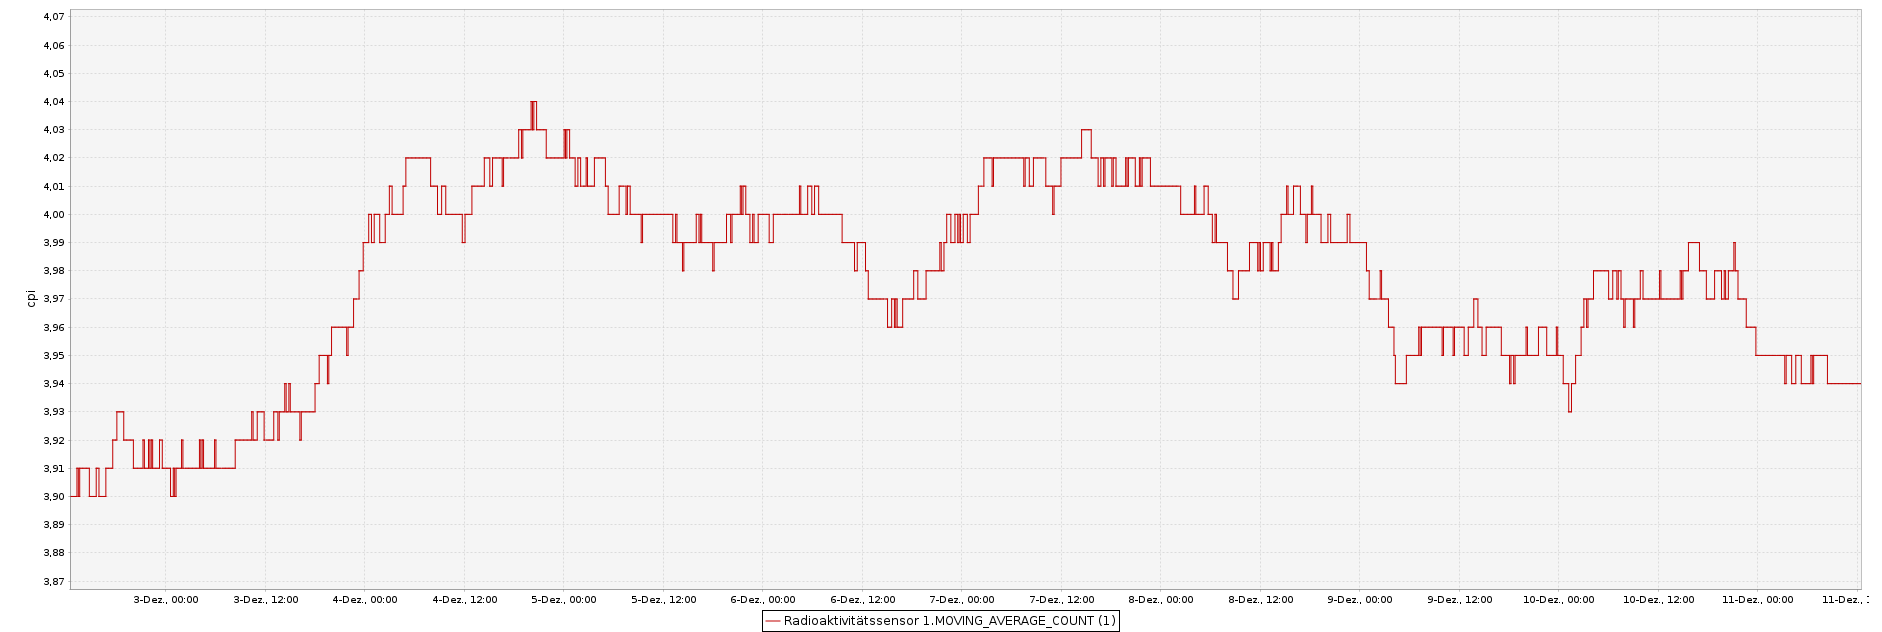
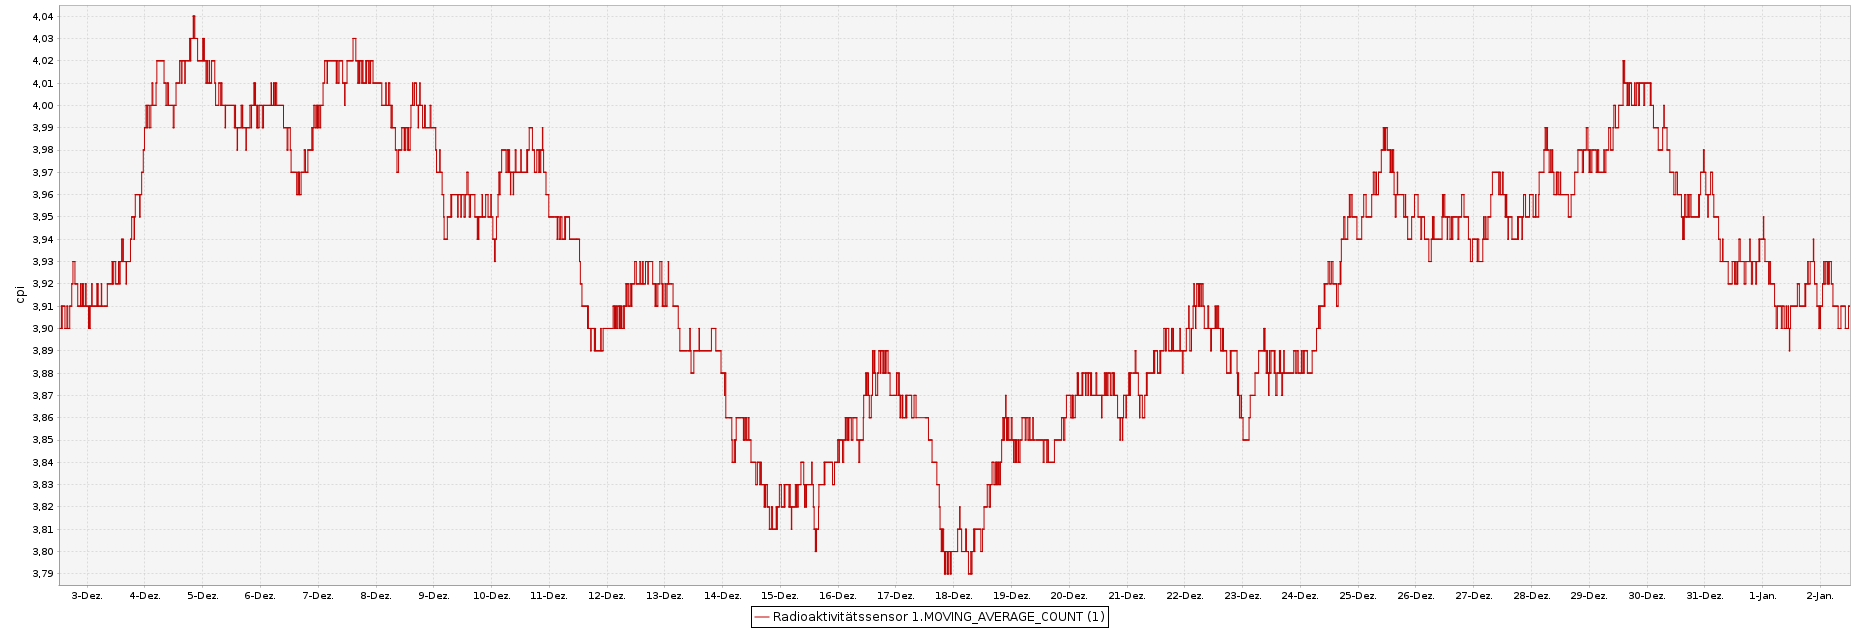
Documentation updates

diff --git a/AsksinPP_developments/PCBs/HM-LC-Bl1-FM_FUEL4EP/README.md b/AsksinPP_developments/PCBs/HM-LC-Bl1-FM_FUEL4EP/README.md
@@ -15,6 +15,8 @@
         + für den Arduino Pro Mini und den CC1101 Tranceiver **vor Einbau** in einem externen Testbed den Ruhestrom prüfen (<10uA) und einen Frequenztest durchführen!
         + das Modul 4 'LM2596 buck 24V->6.3V' zuerst außerhalb auf eine Ausgangsspannung von 6,3 Volt einstellen und dann erst einbauen!
     + die 230V Schaltungsteile erst dann anschließen, wenn der Rest vollständig geprüft wurde und die Software alle notwendigen Funktionen zeigt.
+- Zum Programmieren des ATMega328P mit einem ISP Programmierer bitte statt 4 NiMH Akkumulatoren nur 2 AAA Alkalibatterien verwenden (VCC=3,0..3,2V). Sonst muss avrdude zweimal gestartet werden, siehe Diskussionfaden im nächsten Punkt.
+- Ein Diskussionsfaden ist im Homematic Forum unter [Nachbau HM-LC-Bl1-FM für Velux Rolladen und Netzfreischalter](https://homematic-forum.de/forum/viewtopic.php?f=76&t=71683&sid=71b7e84664ec8bed7b9e50bd442664ad) zu finden
 
 
 ## Disclaimer

diff --git a/AsksinPP_developments/sketches/HB-UNI-Sensor1-RAD-AL53/measurement_examples/background radiation/Measurement_Results.md b/AsksinPP_developments/sketches/HB-UNI-Sensor1-RAD-AL53/measurement_examples/background radiation/Measurement_Results.md
@@ -11,16 +11,16 @@
 
 - Sample Separation: -
 
-- Measurement duration: 16 days
+- Measurement duration: 31 days
 
-- Date: 11th December 2021
+- Date: 2nd Jan 2022
 
 
 ## Results
 
 - Measurement interval: 10 minutes
-- 7D Moving average event rate: 3.94 cpi
+- 7D Moving average event rate: 3.91 cpi
 - Maximum 7D moving average event rate: 4.04 cpi
-- Maximum event rate: 15 cpi
-- 95% Confidence interval width: 8.94 cpi / sqrt(1008) = 0.282 cpi
-- 95% Confidence interval: 3.658 .. 4.222 
+- Maximum event rate: 13 cpi
+- 95% Confidence interval width: 8.73 cpi / sqrt(1008) = 0.275 cpi
+- 95% Confidence interval: 3.635 .. 4.185 
